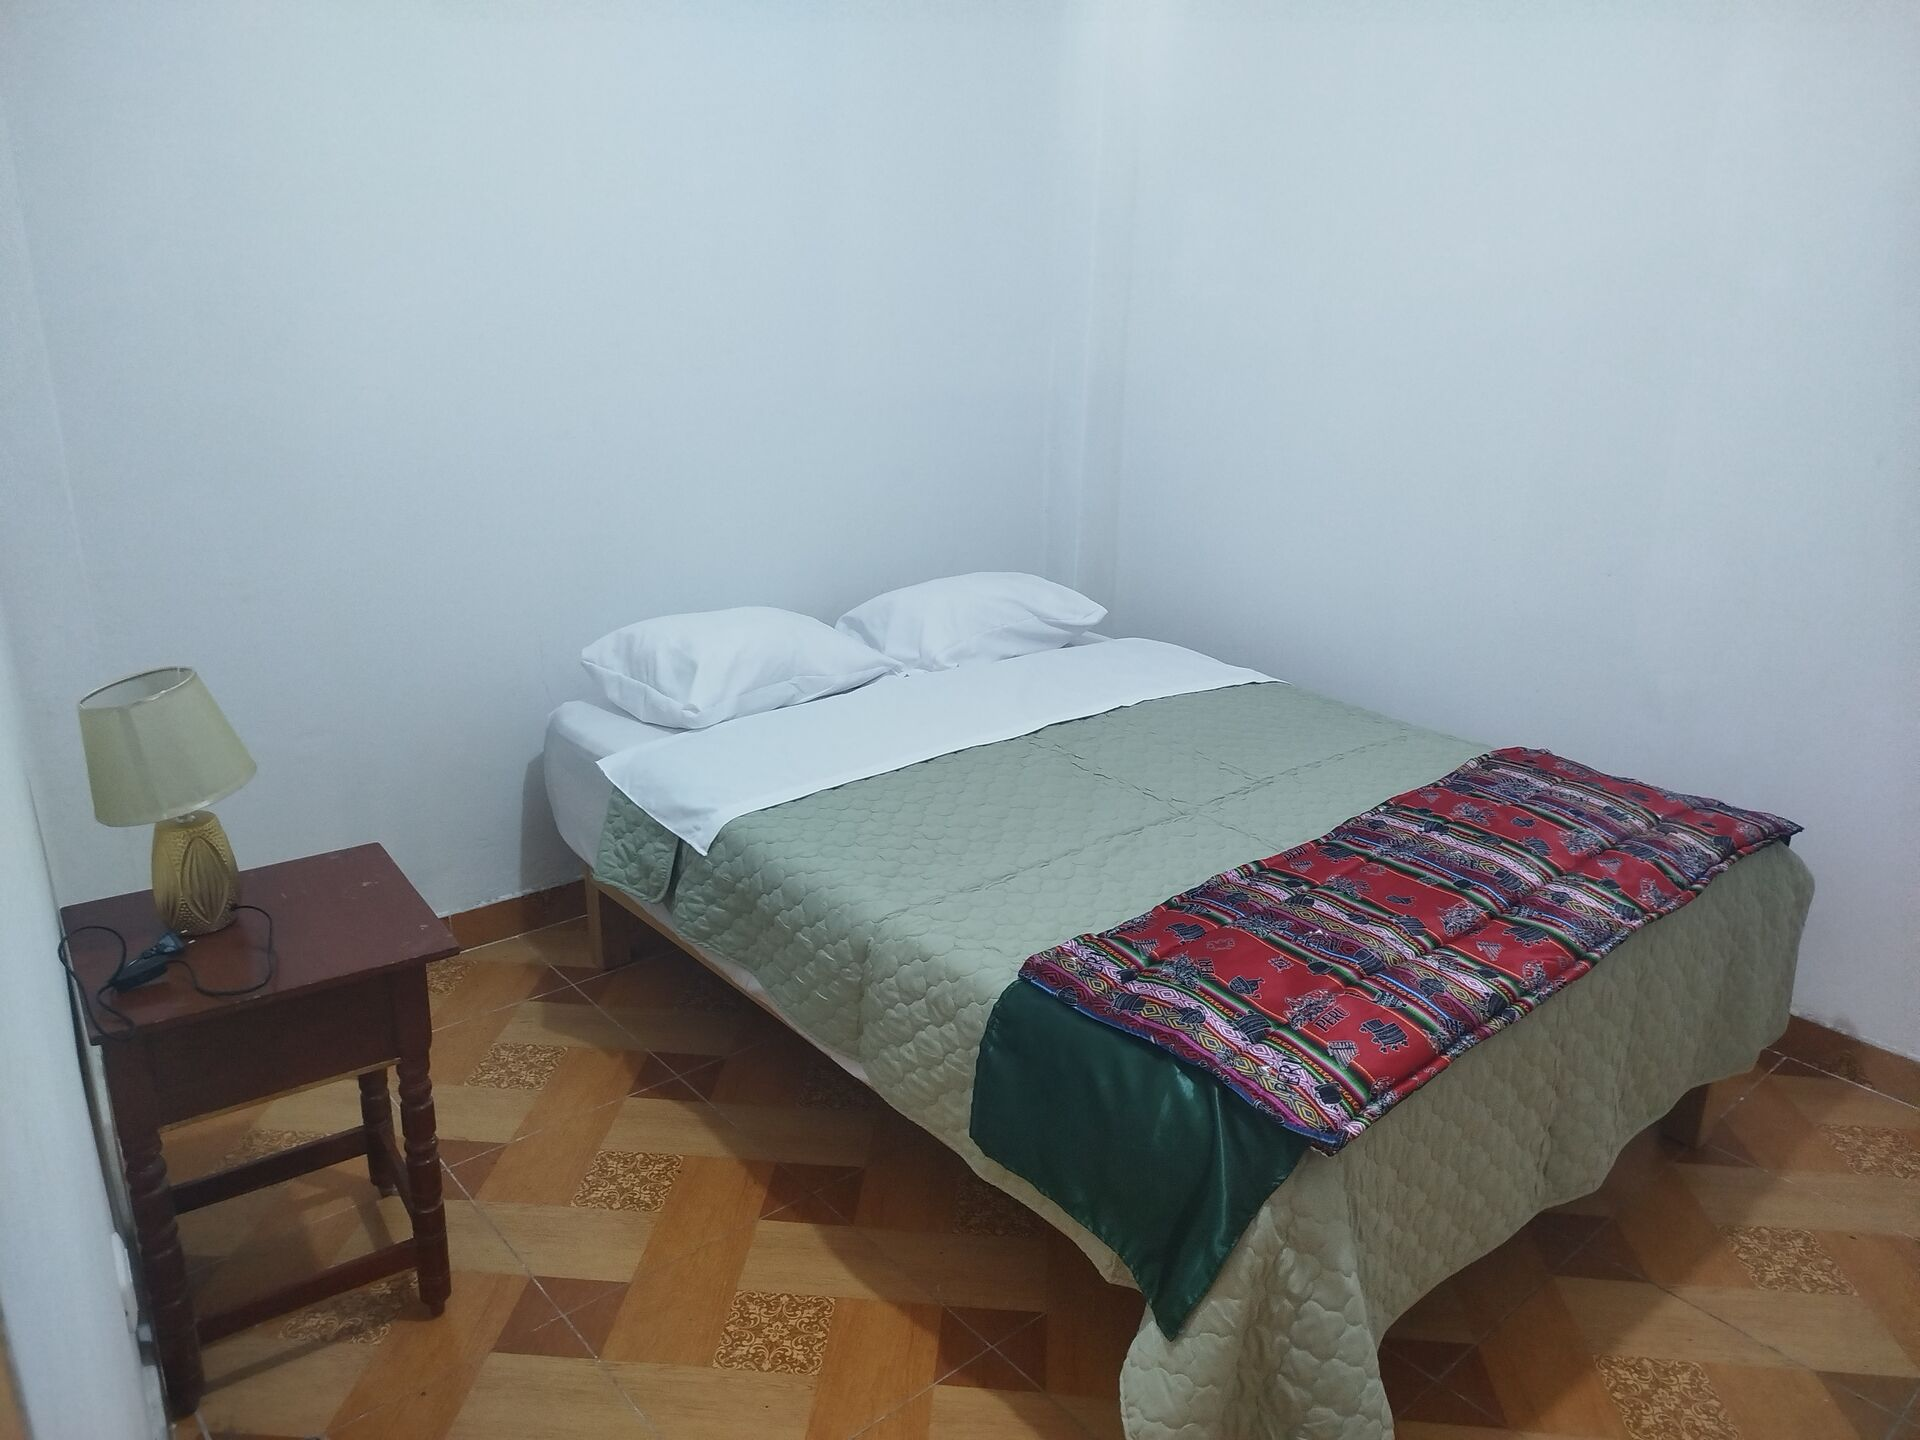
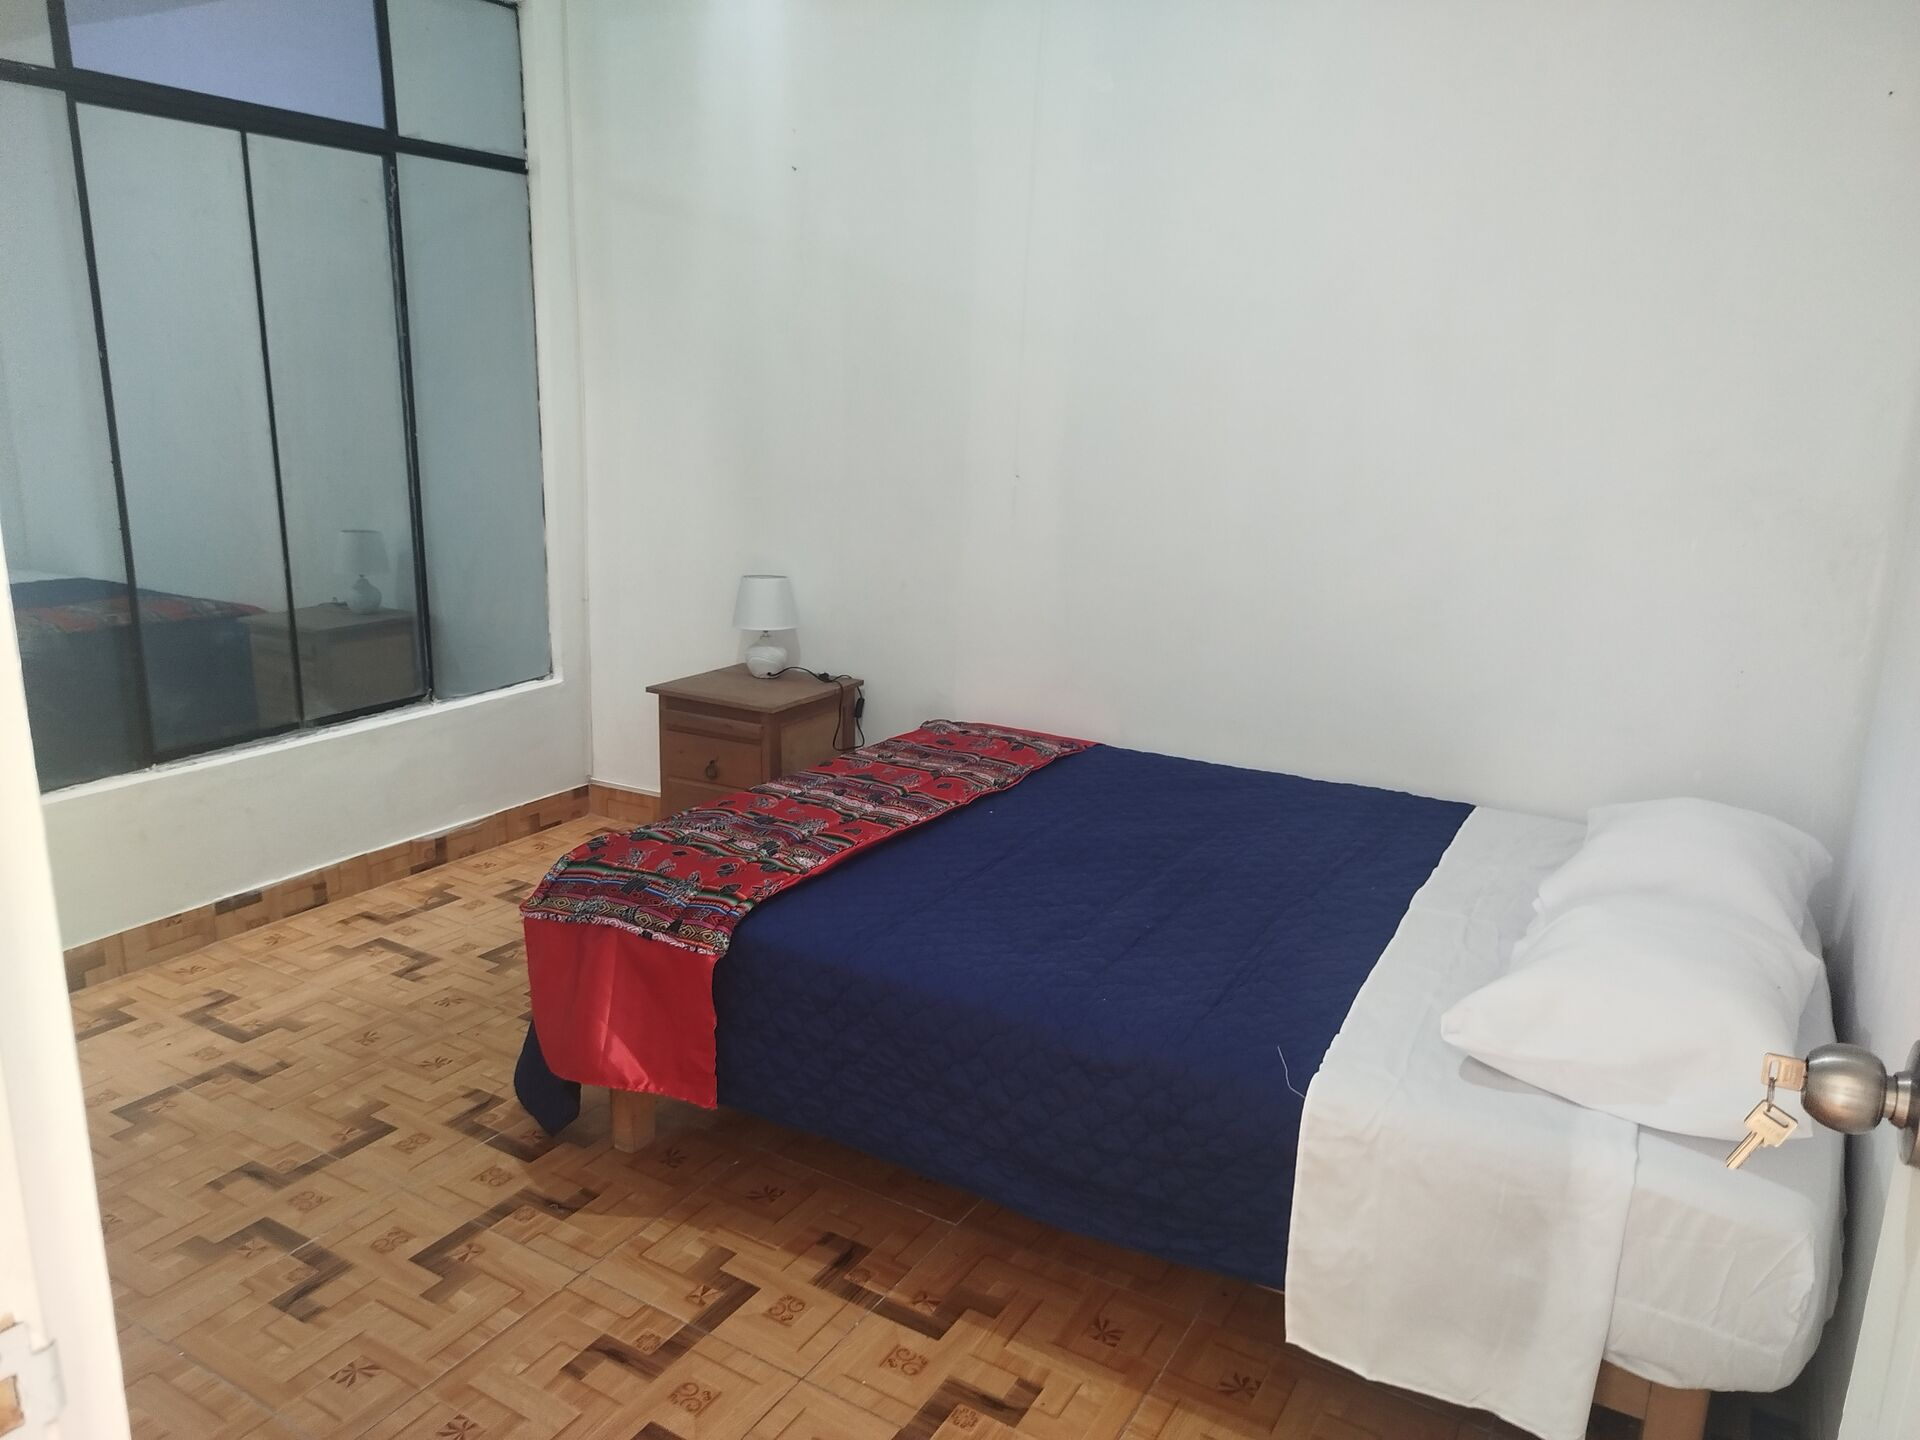
Optimize newly uploaded images & update hotel address and location description

diff --git a/src/i18n.ts b/src/i18n.ts
@@ -81,7 +81,7 @@ export const t = {
       ],
       locationTag: "Where to find us",
       locationTitle: "Moments from the shore",
-      locationP: "Located in the heart of a charming coastal village, Los Suspiros del Mar puts you just a short stroll from white sands and gentle waves. The town offers local restaurants, artisan markets, and that unhurried pace the coast is known for.",
+      locationP: "We are located in the neighbourhood of Los Suspiros in Playa Arica, Lurín. It is a great location for surfing, and relaxing on the beach.",
       nearbyItems: [
         ["🏖", "Beach", "5-min walk"],
         ["🍽", "Local restaurants", "2-min walk"],
@@ -89,7 +89,7 @@ export const t = {
         ["🚌", "Town center", "5-min walk"],
       ],
       getDirections: "Get directions",
-      mapAddress: "Los Suspiros, Playa Arica, Lurín, Lima, Perú",
+      mapAddress: "Jr. Los Lirios, Mz. W, Lt. 8, Playa Arica, Lurín, Lima, Perú",
       openMaps: "Open in Google Maps",
       ctaTitle: "Ready to exhale?",
       ctaDesc: "Book your stay at Los Suspiros del Mar and let the sea take care of the rest.",
@@ -240,7 +240,7 @@ export const t = {
       whatsappTitle: "Prefer WhatsApp?",
       whatsappLink: "Message us on WhatsApp →",
       findUs: "Find us",
-      address: "Los Suspiros, Playa Arica, Lurín, Lima, Perú",
+      address: "Jr. Los Lirios, Mz. W, Lt. 8, Playa Arica, Lurín, Lima, Perú",
       openMaps: "Open in Google Maps",
       infoLabels: { phone: "Phone", email: "Email", checkin: "Check-in", checkout: "Check-out" },
       infoValues: { checkin: "From 3:00 PM", checkout: "By 11:00 AM" },
@@ -342,7 +342,7 @@ export const t = {
       ],
       locationTag: "Dónde encontrarnos",
       locationTitle: "A minutos de la orilla",
-      locationP: "Ubicados en el corazón de un encantador pueblo costero, Los Suspiros del Mar te sitúa a pocos pasos de arenas blancas y suaves olas. El pueblo ofrece restaurantes locales, mercados artesanales y ese ritmo pausado que solo la costa puede dar.",
+      locationP: "Estamos ubicados en el barrio de Los Suspiros en Playa Arica, Lurín. Es una excelente ubicación para surfear y relajarse en la playa.",
       nearbyItems: [
         ["🏖", "Playa", "5 min caminando"],
         ["🍽", "Restaurantes locales", "2 min caminando"],
@@ -350,7 +350,7 @@ export const t = {
         ["🚌", "Centro del pueblo", "5 min caminando"],
       ],
       getDirections: "Cómo llegar",
-      mapAddress: "Los Suspiros, Playa Arica, Lurín, Lima, Perú",
+      mapAddress: "Jr. Los Lirios, Mz. W, Lt. 8, Playa Arica, Lurín, Lima, Perú",
       openMaps: "Abrir en Google Maps",
       ctaTitle: "¿Listo para respirar?",
       ctaDesc: "Reserva tu estadía en Los Suspiros del Mar y deja que el mar se encargue del resto.",
@@ -497,7 +497,7 @@ export const t = {
       whatsappTitle: "¿Prefieres WhatsApp?",
       whatsappLink: "Escríbenos por WhatsApp →",
       findUs: "Encuéntranos",
-      address: "Los Suspiros, Playa Arica, Lurín, Lima, Perú",
+      address: "Jr. Los Lirios, Mz. W, Lt. 8, Playa Arica, Lurín, Lima, Perú",
       openMaps: "Abrir en Google Maps",
       infoLabels: { phone: "Teléfono", email: "Correo", checkin: "Check-in", checkout: "Check-out" },
       infoValues: { checkin: "Desde las 3:00 PM", checkout: "Hasta las 11:00 AM" },

diff --git a/src/site.ts b/src/site.ts
@@ -9,7 +9,7 @@ export const site = {
   phoneHref: "tel:+51976666412",
   whatsappNumber: "51976666412", // country code + number, digits only
   email: "hola@lossuspirosdelmar.pe",
-  address: "Los Suspiros, Playa Arica, Lurín, Lima",
+  address: "Jr. Los Lirios, Mz. W, Lt. 8, Playa Arica, Lurín, Lima",
   checkin: "3:00 PM",
   checkout: "11:00 AM",
   social: {
